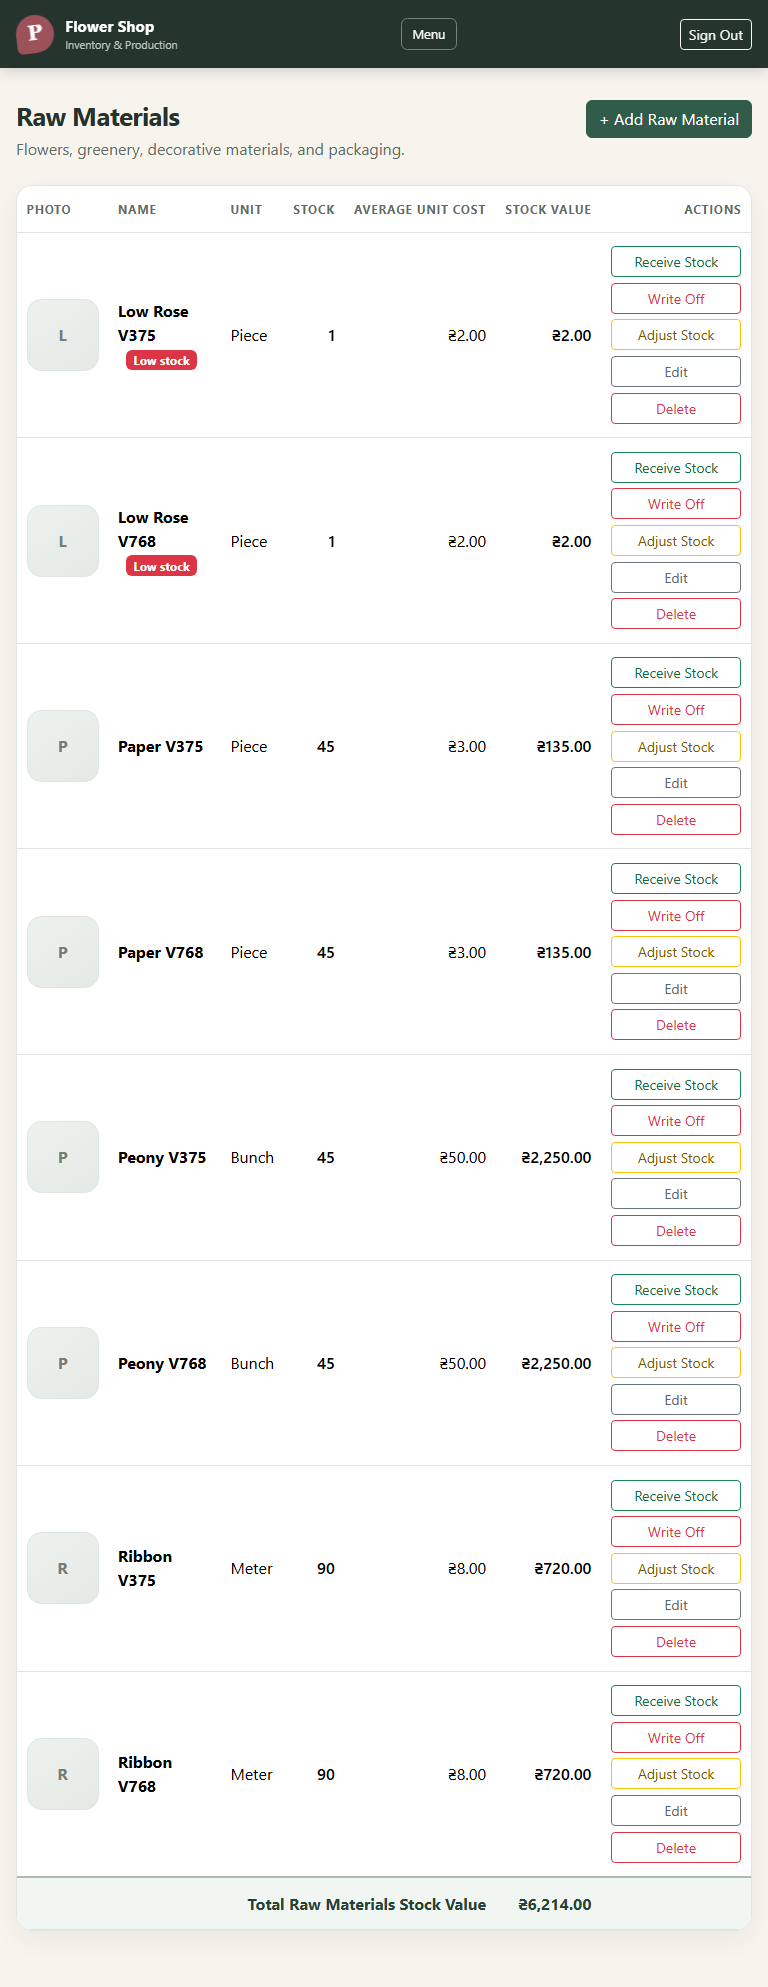
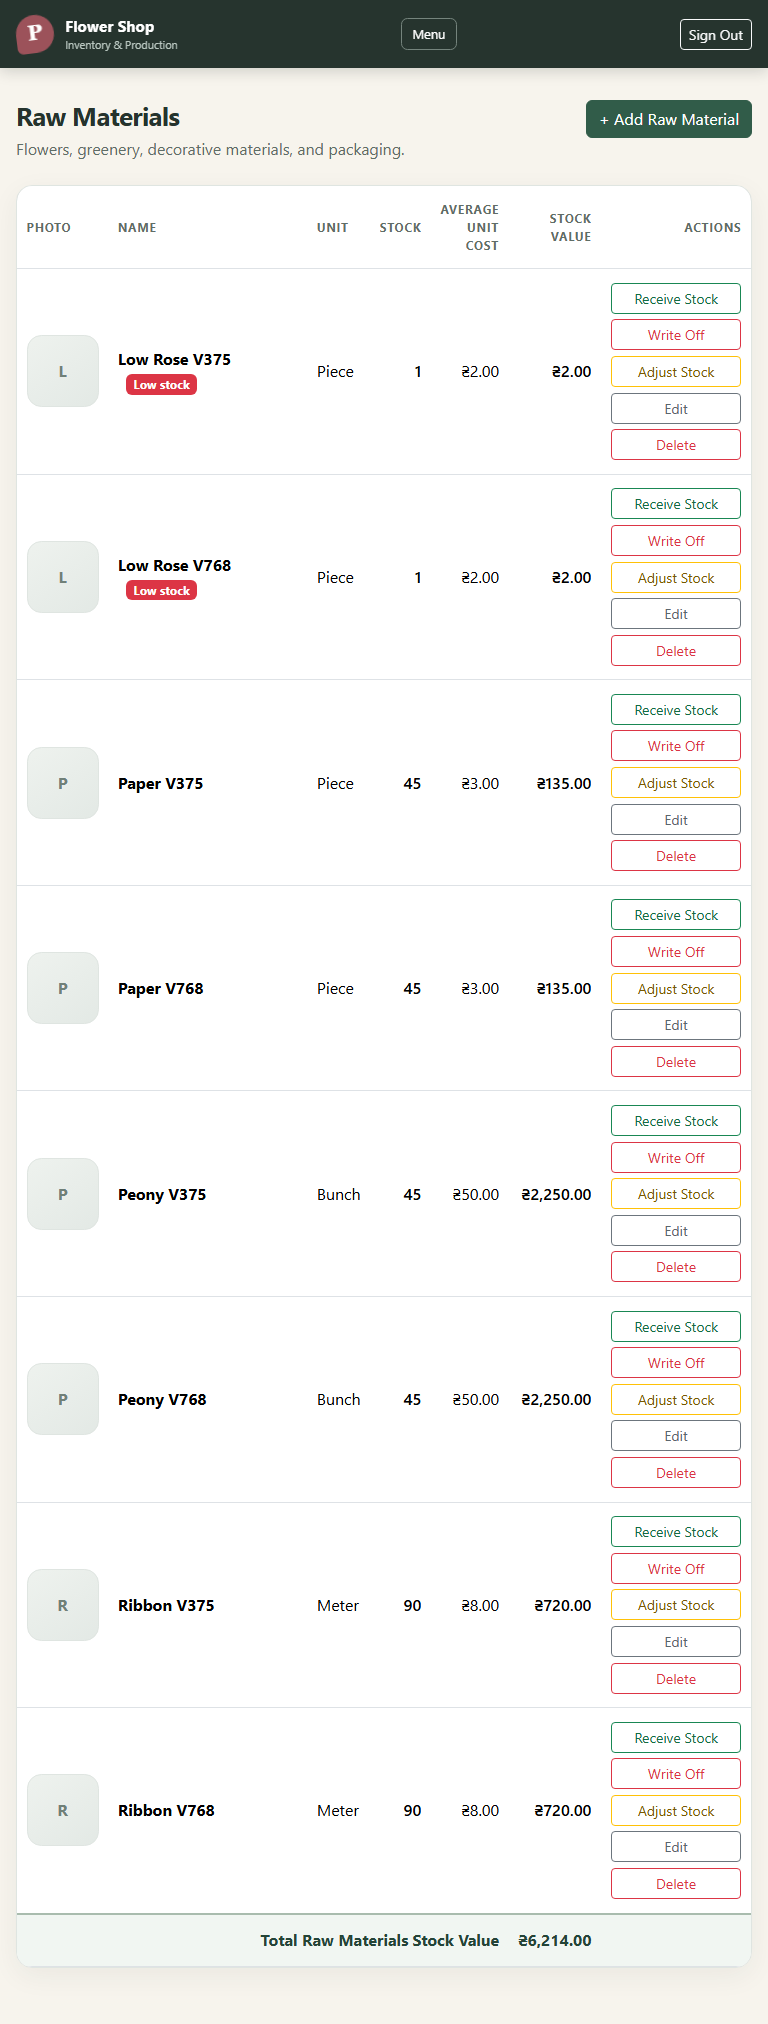
Refresh the accessibility, vision and e2e reports for the final stylesheet and bring the slice documents up to date
Seven judging rounds, the CI font finding and the later stylesheet fixes are described in the slice's design.md.

Slice: playwright-a11y-vision
Refs: NFR-17, NFR-18, NFR-20

diff --git a/openspec/changes/playwright-a11y-vision/design.md b/openspec/changes/playwright-a11y-vision/design.md
@@ -21,12 +21,14 @@ for the file on disk (a hash), and nothing in the frontend changed after the jud
 the report stale, and every screenshot is judged again.
 
 ## What the judges found
-The first round failed three screenshots (Raw Materials at 375 and 768 px, Stock History at 1280 px): a table scrolled inside its
-frame and nothing showed that it did. A shadow on the edge of any `.table-responsive` with more to scroll to fixed the cue; the
-second round still failed Raw Materials at 375 px (its total label sat off screen) and at 768 px (the table was 38 px too wide for
-its frame). Smaller cell padding below 992 px and a left-aligned total label on a phone fixed those, and the third round, with
-all 24 screenshots judged again from nothing, passed. The failing rounds are recorded here, not in the report, which describes the
-tree it was made from.
+Every round judged all 24 screenshots again from nothing, because any change to the frontend makes the report stale. Seven rounds were run. Rounds one, two, four and six failed some screenshots; rounds three and five passed, but each was followed by a frontend change that made its report stale (below), so only the seventh describes the final tree.
+- Rounds one and two: a table scrolled inside its frame and nothing showed that it did; the Raw Materials table was 38 px too wide at 768 px and its total label sat off screen on a phone. A shadow on the edge of any `.table-responsive` with more to scroll to, smaller cell padding below 992 px and a left-aligned total label on a phone fixed those.
+- Round four, once the screenshots held every sale state and a low-stock material: a low-stock badge touching the material's name. A margin fixed it.
+- After the first pull-request run: the CI runner has no Inter or Segoe UI and its wider fallback font made the Raw Materials table 55 px too wide at 768 px, which a forced wide font reproduces locally. Header labels may now wrap below 992 px, and the layout test also checks the table in a wide font.
+- Round six: several judges called the scroll shadow too faint to read as a cue, the dimmed rows of cancelled and returned sales pale, and sale dates broke over three lines on a phone. The shadow is stronger, the dimmed rows darker, the refund caption larger and the date does not wrap.
+- The full end-to-end run, which leaves cancelled and returned sales behind, also found the dimmed rows at 3.8:1; axe now checks every sale state (`everySaleState` in `e2e/support/bouquet.ts`).
+A judge can differ on another run: the judges' own notes on the final round still call the shadow "subtle" in places and say it can be hard to see at a reduced scale. The failing rounds are recorded here, not in the report, which describes the tree it was made from.
+
 
 ## The e2e report
 The `e2e` class of the acceptance-method gate wants a committed artifact with a `status`. Playwright's own JSON report has none and

diff --git a/docs/adr/0011-accessibility-vision-and-closed-waivers.md b/docs/adr/0011-accessibility-vision-and-closed-waivers.md
@@ -32,7 +32,9 @@ scheme, failing on serious and critical violations), and approved `@axe-core/pla
   `e2e` class has a committed artifact. The gate cannot see how old it is.
 - **What the checks found was fixed in the stylesheet,** each class in its own commit: contrast of secondary text, the rose accent
   and the outline success and warning buttons (seven pages); a shadow on the edge of a wide table that has more to scroll to;
-  cell padding below 992 px and a left-aligned total label on a phone (Raw Materials). Nothing else in the application changed.
+  cell padding, wrapping header labels and a left-aligned total label on a phone (Raw Materials, whose table was too wide at 768 px in a
+  wider fallback font); a margin between a material's name and its low stock badge; darker text on the dimmed rows of cancelled and
+  returned sales; sale dates that no longer wrap. Nothing else in the application changed, and no template but the sale date cell.
 - **The rows and the waivers.** OQ-8 and OQ-15 are `answered` with the owner's words, date and reference, and a test that holds
   each; the NFR-17/18/20 rows say what is checked and how; the three waivers are `Status: closed` with their evidence.
 - **The lock is re-sealed** in the commit that adds the two gate scripts, keeping the earlier adaptation notes and adding one, on

diff --git a/openspec/changes/playwright-a11y-vision/proposal.md b/openspec/changes/playwright-a11y-vision/proposal.md
@@ -25,8 +25,9 @@ the application's stylesheet only where a check found a real defect.
   whole run of every supported browser, so the `e2e` class has an artifact the gate can read.
 - **Defects the checks found, fixed in the stylesheet:** secondary text, the rose accent and the outline success and warning
   buttons failed the 4.5:1 contrast ratio on seven pages; wide tables scrolled inside their frame with no sign of it, so a clipped
-  column looked cut off (a shadow now shows on an edge with more to scroll to); the Raw Materials table was 38 px too wide at
-  768 px and its total label sat off screen on a phone.
+  column looked cut off (a shadow now shows on an edge with more to scroll to); the Raw Materials table was too wide at 768 px in a
+  wide fallback font (header labels now wrap) and its total label sat off screen on a phone; dimmed rows of cancelled and returned
+  sales, a low-stock badge touching a name, and sale dates broken over three lines.
 - **Decisions and waivers:** OQ-8 and OQ-15 answered in `docs/requirements.md` (the OQ-1 path), the NFR-17/18/20 rows rewritten,
   the three waivers set to `Status: closed` with their evidence. ADR-0011; the integrity lock is re-sealed for the two new gate
   scripts.
